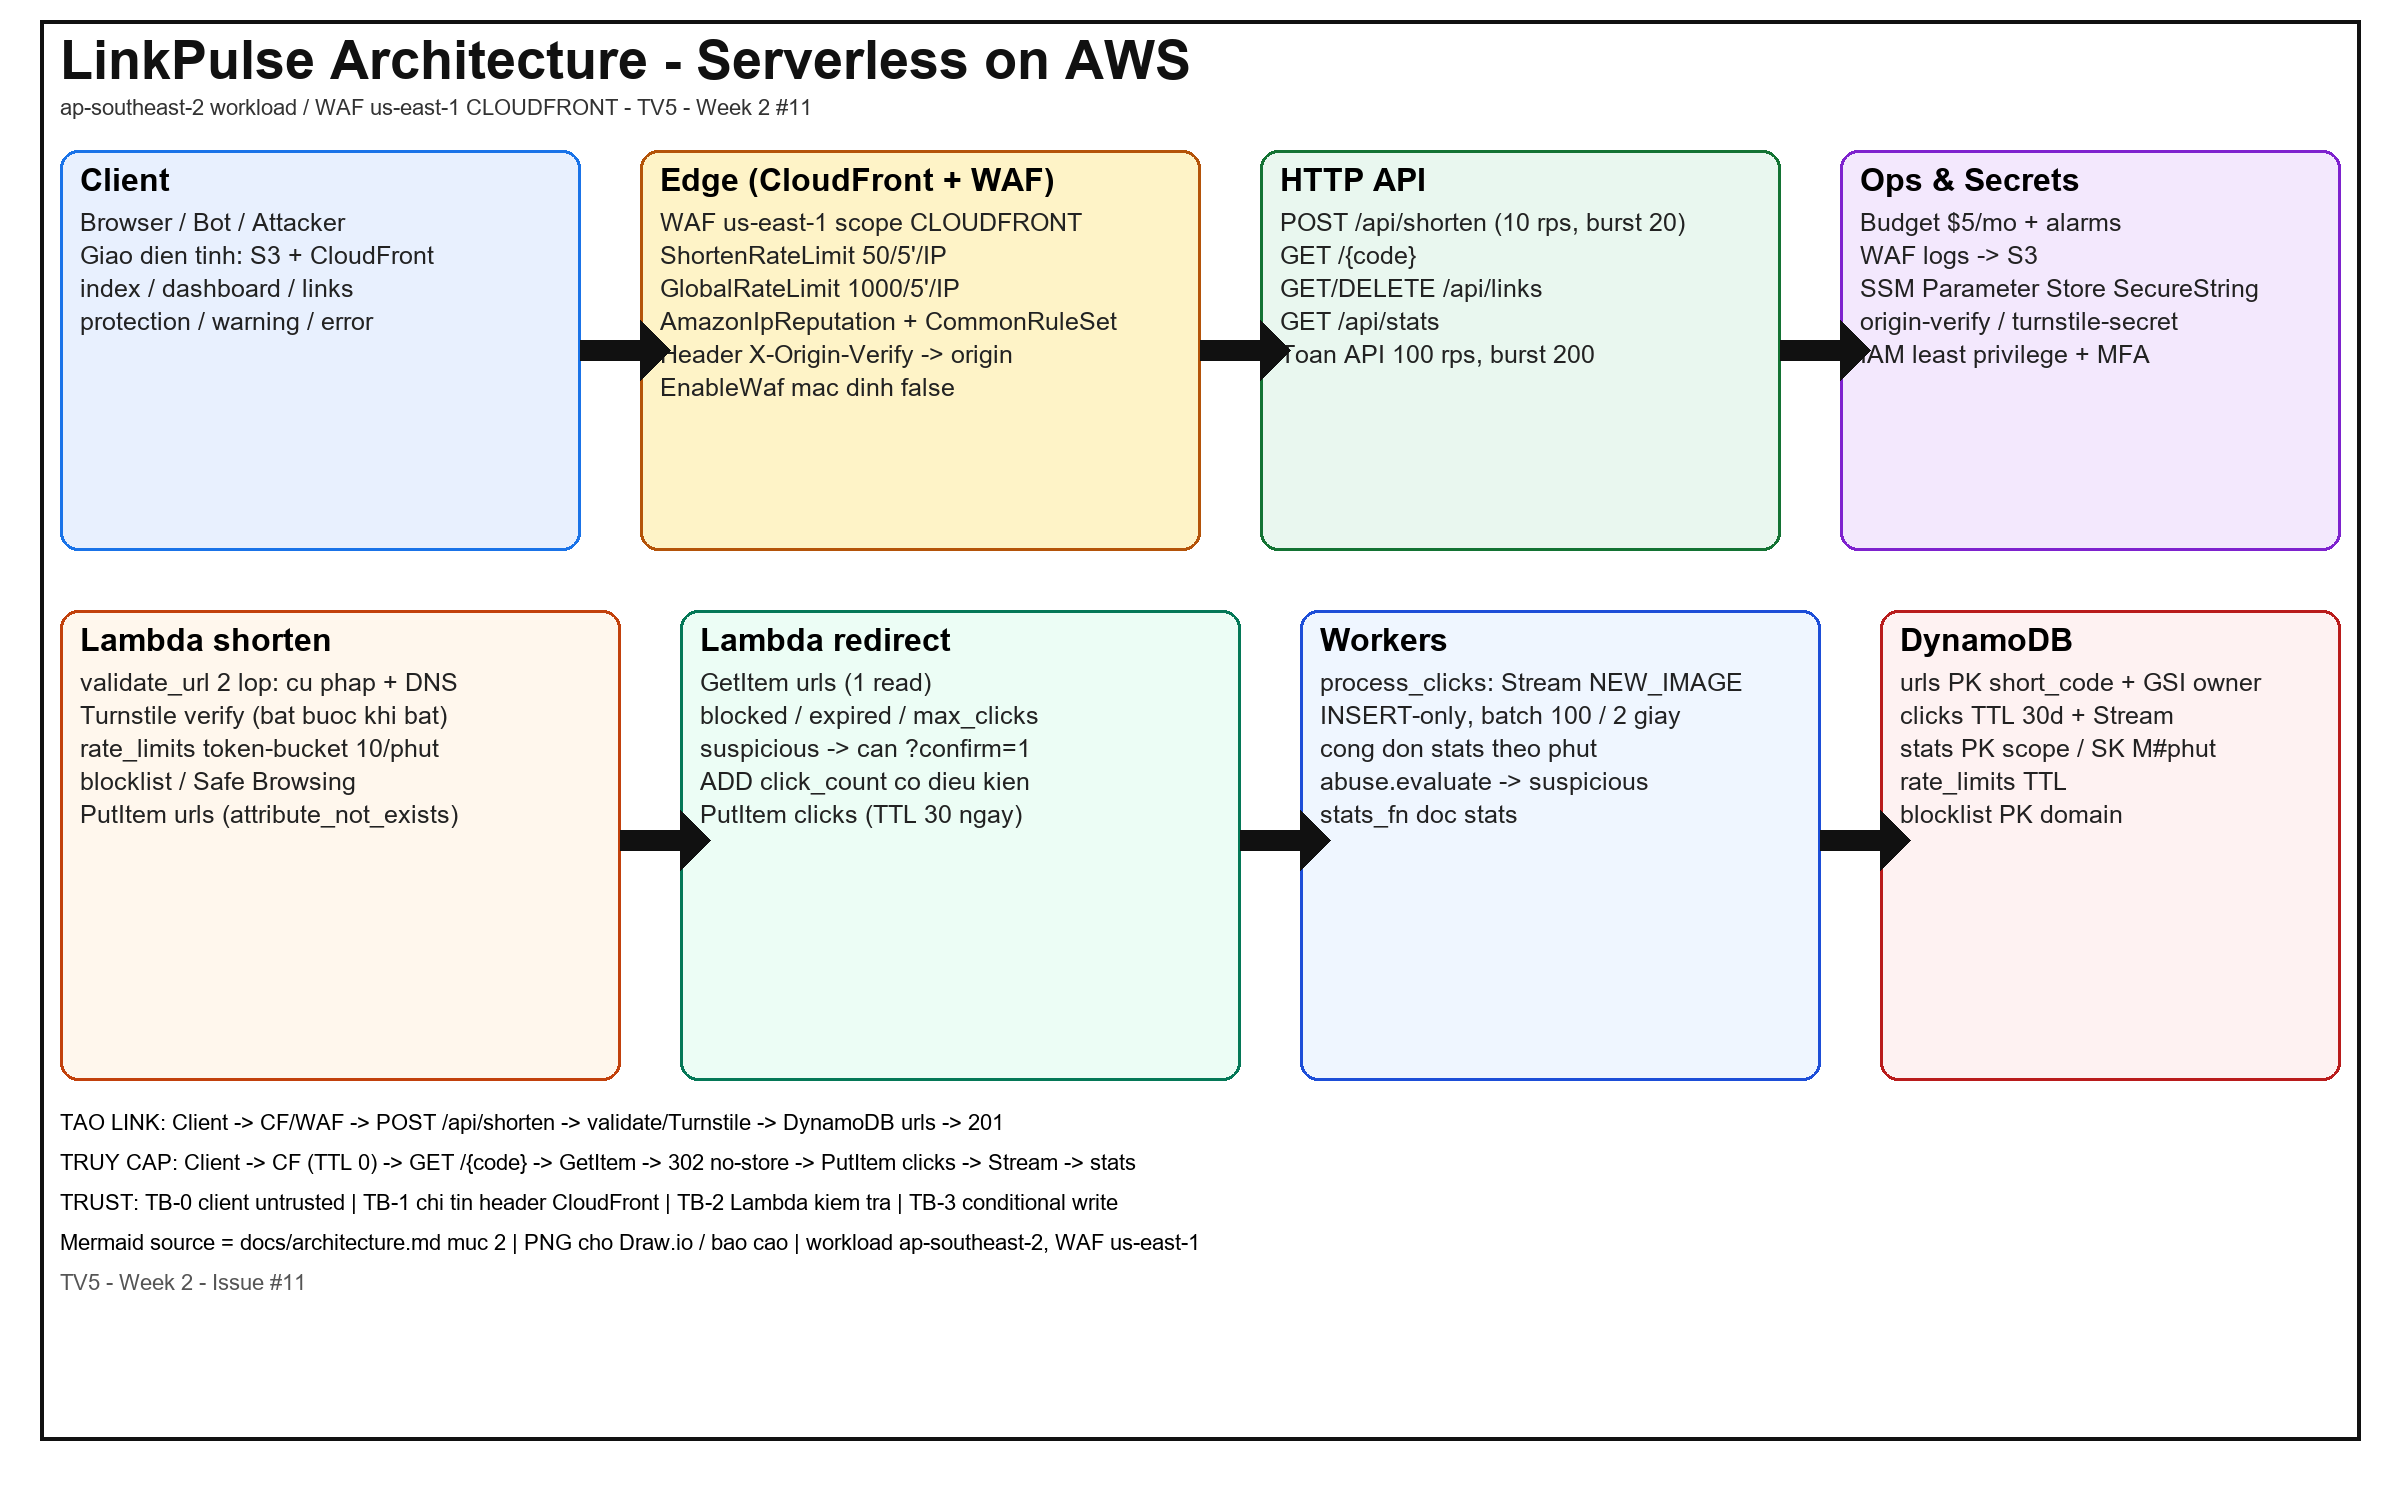
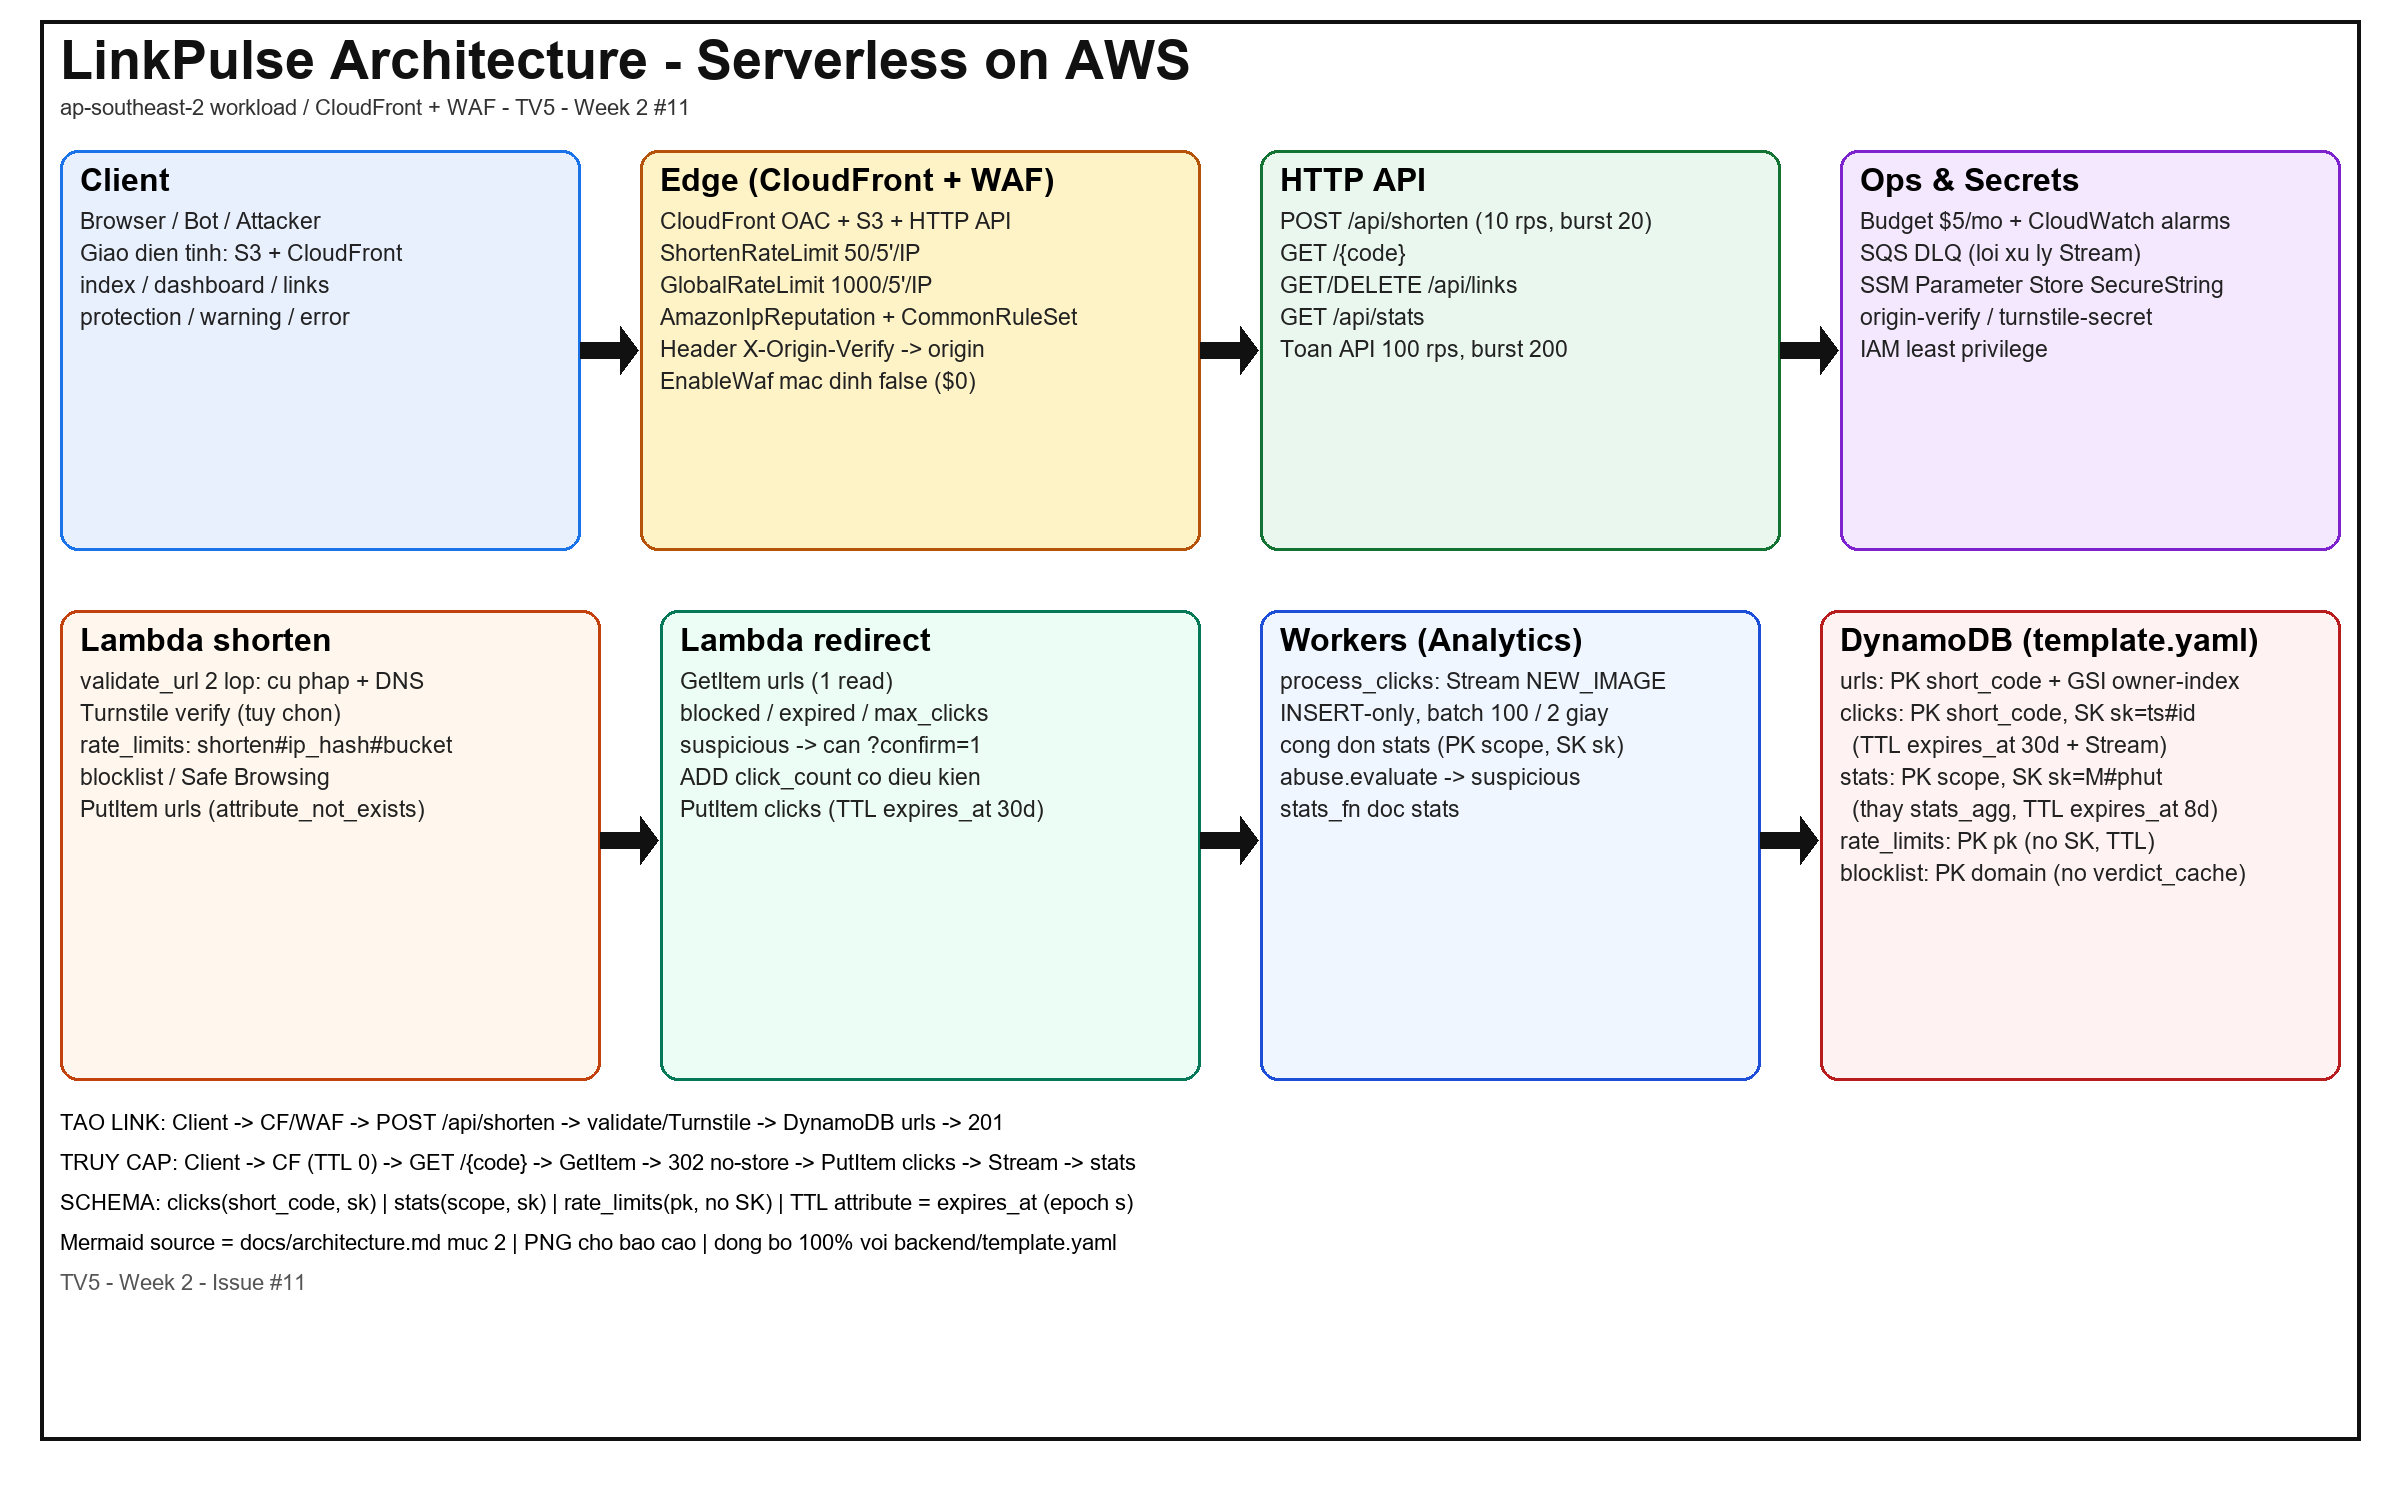
docs(arch): đồng bộ chi tiết khóa PK/SK, TTL expires_at và làm rõ verdict_cache theo template

diff --git a/scripts/gen_arch_png.py b/scripts/gen_arch_png.py
@@ -13,7 +13,7 @@ d = ImageDraw.Draw(img)
 try:
     f_title = ImageFont.truetype("arialbd.ttf", 54)
     f_h = ImageFont.truetype("arialbd.ttf", 32)
-    f_b = ImageFont.truetype("arial.ttf", 25)
+    f_b = ImageFont.truetype("arial.ttf", 23)
     f_s = ImageFont.truetype("arial.ttf", 22)
 except Exception:
     f_title = ImageFont.load_default()
@@ -26,11 +26,11 @@ def box(x, y, w, h, fill, outline, title, lines):
     yy = y + 58
     for ln in lines:
         d.text((x + 20, yy), ln, font=f_b, fill="#222222")
-        yy += 33
+        yy += 32
 
 
 d.text((60, 30), "LinkPulse Architecture - Serverless on AWS", font=f_title, fill="#111111")
-d.text((60, 95), "ap-southeast-2 workload / WAF us-east-1 CLOUDFRONT - TV5 - Week 2 #11", font=f_s, fill="#333333")
+d.text((60, 95), "ap-southeast-2 workload / CloudFront + WAF - TV5 - Week 2 #11", font=f_s, fill="#333333")
 
 box(60, 150, 520, 400, "#E8F0FE", "#1a73e8", "Client", [
     "Browser / Bot / Attacker",
@@ -39,12 +39,12 @@ box(60, 150, 520, 400, "#E8F0FE", "#1a73e8", "Client", [
     "protection / warning / error",
 ])
 box(640, 150, 560, 400, "#FEF3C7", "#b45309", "Edge (CloudFront + WAF)", [
-    "WAF us-east-1 scope CLOUDFRONT",
+    "CloudFront OAC + S3 + HTTP API",
     "ShortenRateLimit 50/5'/IP",
     "GlobalRateLimit 1000/5'/IP",
     "AmazonIpReputation + CommonRuleSet",
     "Header X-Origin-Verify -> origin",
-    "EnableWaf mac dinh false",
+    "EnableWaf mac dinh false ($0)",
 ])
 box(1260, 150, 520, 400, "#E9F7EF", "#137333", "HTTP API", [
     "POST /api/shorten (10 rps, burst 20)",
@@ -54,54 +54,56 @@ box(1260, 150, 520, 400, "#E9F7EF", "#137333", "HTTP API", [
     "Toan API 100 rps, burst 200",
 ])
 box(1840, 150, 500, 400, "#F3E8FD", "#7e22ce", "Ops & Secrets", [
-    "Budget $5/mo + alarms",
-    "WAF logs -> S3",
+    "Budget $5/mo + CloudWatch alarms",
+    "SQS DLQ (loi xu ly Stream)",
     "SSM Parameter Store SecureString",
     "origin-verify / turnstile-secret",
-    "IAM least privilege + MFA",
+    "IAM least privilege",
 ])
 
 for x in (580, 1200, 1780):
-    d.polygon([(x, 340), (x + 60, 340), (x + 60, 320), (x + 90, 350),
-               (x + 60, 380), (x + 60, 360), (x, 360)], fill="#111111")
+    d.polygon([(x, 342), (x + 40, 342), (x + 40, 326), (x + 58, 350),
+               (x + 40, 374), (x + 40, 358), (x, 358)], fill="#111111")
 
-box(60, 610, 560, 470, "#FFF7ED", "#c2410c", "Lambda shorten", [
+box(60, 610, 540, 470, "#FFF7ED", "#c2410c", "Lambda shorten", [
     "validate_url 2 lop: cu phap + DNS",
-    "Turnstile verify (bat buoc khi bat)",
-    "rate_limits token-bucket 10/phut",
+    "Turnstile verify (tuy chon)",
+    "rate_limits: shorten#ip_hash#bucket",
     "blocklist / Safe Browsing",
     "PutItem urls (attribute_not_exists)",
 ])
-box(680, 610, 560, 470, "#ECFDF5", "#047857", "Lambda redirect", [
+box(660, 610, 540, 470, "#ECFDF5", "#047857", "Lambda redirect", [
     "GetItem urls (1 read)",
     "blocked / expired / max_clicks",
     "suspicious -> can ?confirm=1",
     "ADD click_count co dieu kien",
-    "PutItem clicks (TTL 30 ngay)",
+    "PutItem clicks (TTL expires_at 30d)",
 ])
-box(1300, 610, 520, 470, "#EFF6FF", "#1d4ed8", "Workers", [
+box(1260, 610, 500, 470, "#EFF6FF", "#1d4ed8", "Workers (Analytics)", [
     "process_clicks: Stream NEW_IMAGE",
     "INSERT-only, batch 100 / 2 giay",
-    "cong don stats theo phut",
+    "cong don stats (PK scope, SK sk)",
     "abuse.evaluate -> suspicious",
     "stats_fn doc stats",
 ])
-box(1880, 610, 460, 470, "#FEF2F2", "#b91c1c", "DynamoDB", [
-    "urls PK short_code + GSI owner",
-    "clicks TTL 30d + Stream",
-    "stats PK scope / SK M#phut",
-    "rate_limits TTL",
-    "blocklist PK domain",
+box(1820, 610, 520, 470, "#FEF2F2", "#b91c1c", "DynamoDB (template.yaml)", [
+    "urls: PK short_code + GSI owner-index",
+    "clicks: PK short_code, SK sk=ts#id",
+    "  (TTL expires_at 30d + Stream)",
+    "stats: PK scope, SK sk=M#phut",
+    "  (thay stats_agg, TTL expires_at 8d)",
+    "rate_limits: PK pk (no SK, TTL)",
+    "blocklist: PK domain (no verdict_cache)",
 ])
 
-for x in (620, 1240, 1820):
-    d.polygon([(x, 830), (x + 60, 830), (x + 60, 810), (x + 90, 840),
-               (x + 60, 870), (x + 60, 850), (x, 850)], fill="#111111")
+for x in (600, 1200, 1760):
+    d.polygon([(x, 832), (x + 40, 832), (x + 40, 816), (x + 58, 840),
+               (x + 40, 864), (x + 40, 848), (x, 848)], fill="#111111")
 
 d.text((60, 1110), "TAO LINK: Client -> CF/WAF -> POST /api/shorten -> validate/Turnstile -> DynamoDB urls -> 201", font=f_s, fill="black")
 d.text((60, 1150), "TRUY CAP: Client -> CF (TTL 0) -> GET /{code} -> GetItem -> 302 no-store -> PutItem clicks -> Stream -> stats", font=f_s, fill="black")
-d.text((60, 1190), "TRUST: TB-0 client untrusted | TB-1 chi tin header CloudFront | TB-2 Lambda kiem tra | TB-3 conditional write", font=f_s, fill="black")
-d.text((60, 1230), "Mermaid source = docs/architecture.md muc 2 | PNG cho Draw.io / bao cao | workload ap-southeast-2, WAF us-east-1", font=f_s, fill="black")
+d.text((60, 1190), "SCHEMA: clicks(short_code, sk) | stats(scope, sk) | rate_limits(pk, no SK) | TTL attribute = expires_at (epoch s)", font=f_s, fill="black")
+d.text((60, 1230), "Mermaid source = docs/architecture.md muc 2 | PNG cho bao cao | dong bo 100% voi backend/template.yaml", font=f_s, fill="black")
 d.text((60, 1270), "TV5 - Week 2 - Issue #11", font=f_s, fill="#555555")
 
 d.rectangle([40, 20, W - 40, H - 60], outline="#111111", width=4)

diff --git a/docs/architecture.md b/docs/architecture.md
@@ -61,12 +61,12 @@ flowchart TB
         LProc["process_clicks<br/>Stream NEW_IMAGE, INSERT<br/>→ cộng dồn stats theo phút<br/>→ gắn cờ link bất thường"]
     end
 
-    subgraph Data["DynamoDB — provisioned, TTL, Streams"]
-        TUrls[("urls<br/>PK short_code<br/>GSI owner-index (owner_id, created_at)")]
-        TClicks[("clicks<br/>PK short_code, SK sk=ts#id<br/>TTL 30 ngày, Stream NEW_IMAGE")]
-        TStats[("stats<br/>PK scope (GLOBAL/LINK#code/META)<br/>SK sk=M#phút<br/>TTL 8 ngày")]
-        TRate[("rate_limits<br/>PK pk=loại#ip_hash#cửa sổ")]
-        TBlock[("blocklist<br/>PK domain")]
+    subgraph Data["DynamoDB — provisioned, TTL expires_at, Streams"]
+        TUrls[("urls (UrlsTable)<br/>PK short_code<br/>GSI owner-index (owner_id, created_at)")]
+        TClicks[("clicks (ClicksTable)<br/>PK short_code · SK sk=ts#id<br/>TTL expires_at (30 ngày) · Stream NEW_IMAGE")]
+        TStats[("stats (StatsTable, thay cho stats_agg)<br/>PK scope · SK sk=M#phút<br/>TTL expires_at (8 ngày)")]
+        TRate[("rate_limits (RateLimitsTable)<br/>PK pk=loại#ip_hash#cửa_sổ (không có SK)<br/>TTL expires_at")]
+        TBlock[("blocklist (BlocklistTable)<br/>PK domain (không chứa verdict_cache)")]
     end
 
     subgraph Ops["Vận hành"]
@@ -97,7 +97,7 @@ flowchart TB
     LStats --> TStats
     TClicks -->|Streams NEW_IMAGE| LProc
     LProc --> TStats
-    LProc -->|gắn cỏ| TUrls
+    LProc -->|gắn cờ| TUrls
     LProc -->|lỗi| SQS
     SQS --> CW
     LShort -.->|đọc bí mật| SSM
@@ -218,15 +218,20 @@ Chuẩn lỗi: `{ "error": { "code", "message?", "reason?", "retry_after?" } }`.
 ### 4.2. DynamoDB
 
 `backend/template.yaml` là nguồn sự thật của schema. Chế độ tính phí `PROVISIONED` để nằm trong
-mức miễn phí.
+mức miễn phí (23 WCU / 23 RCU tổng).
 
-| Bảng | Khoá | Ghi chú |
-|---|---|---|
-| `urls` | PK `short_code` · GSI `owner-index` (`owner_id`, `created_at`) | `status`, `long_url`, `owner_id`, `created_at`, `expires_at`, `max_clicks`, `click_count`, `flag_reason`, `flagged_at`. Xoá mềm giữ `status = deleted`. |
-| `clicks` | PK `short_code` · SK `sk = <ts>#<id>` | TTL 30 ngày · Stream `NEW_IMAGE` là nguồn của pipeline. Chỉ lưu `ip_hash`, không lưu `user_agent`. |
-| `stats` | PK `scope` (`GLOBAL` / `LINK#<code>` / `META`) · SK `sk = M#<phút>` | TTL 8 ngày · bộ đếm phẳng và tập `ips`. |
-| `rate_limits` | PK `pk = <loại>#<ip_hash>#<cửa sổ>` | Ghi có điều kiện nguyên tử, TTL tự dọn. |
-| `blocklist` | PK `domain` | Khớp cả domain cha (`a.b.bad.com` khớp `bad.com`). |
+| Bảng (`template.yaml`) | Partition Key (PK) & Sort Key (SK) | TTL (`expires_at`) | Ghi chú đồng bộ với `backend/template.yaml` |
+|---|---|---|---|
+| `urls` (`UrlsTable`) | PK `short_code` (`S`) · **Không có SK** · GSI `owner-index` (`PK: owner_id`, `SK: created_at`) | Không bật DynamoDB TTL (`expires_at` chỉ dùng kiểm tra nghiệp vụ trả `410 link_expired`) | `status`, `long_url`, `owner_id`, `created_at`, `expires_at`, `max_clicks`, `click_count`, `flag_reason`, `flagged_at`. Xoá mềm giữ `status = deleted` để không cấp lại mã. |
+| `clicks` (`ClicksTable`) | PK `short_code` (`S`) · SK `sk` (`S`, dạng `<timestamp ISO UTC>#<id>`, không dùng `click_key`) | Bật (`expires_at` kiểu Number, Unix epoch seconds, mặc định 30 ngày qua `CLICKS_TTL_DAYS`) | Stream `NEW_IMAGE` (lọc `INSERT`) kích hoạt `process_clicks`. Chỉ lưu `ip_hash` (16 hex) và `result` (`valid`/`bot`), không lưu `user_agent`. |
+| `stats` (`StatsTable`, đổi từ `stats_agg`) | PK `scope` (`S`: `GLOBAL` / `LINK#<code>` / `META`) · SK `sk` (`S`: `M#<ISO phút>` hoặc khoá meta) | Bật (`expires_at` kiểu Number, Unix epoch seconds, mặc định 8 ngày cho dòng `M#<phút>`; dòng `META` không đặt `expires_at`) | Lưu bộ đếm phẳng (`clicks`, `bot_clicks`, `c:*`, `d:*`, `b:*`, `r:*`, `l:*`) và tập `ips`. |
+| `rate_limits` (`RateLimitsTable`) | PK `pk` (`S`, dạng `<loại>#<ip_hash>#<cửa_sổ>`) · **Không có SK** (thay cho `PK: ip` ở bản phác thảo tuần 1) | Bật (`expires_at = (bucket + 2) * window`, kiểu Number, Unix epoch seconds) | Ghi có điều kiện nguyên tử (`ADD cnt :one`), tự dọn sau 2 cửa sổ thời gian. |
+| `blocklist` (`BlocklistTable`) | PK `domain` (`S`) · **Không có SK** | Không bật TTL | Chỉ lưu danh sách tên miền bị chặn nội bộ (`domain`, `reason`, `created_at`), khớp cả domain cha (`a.b.bad.com` khớp `bad.com`). |
+
+**Làm rõ các điểm đồng bộ giữa kiến trúc và `backend/template.yaml`:**
+
+- **Quy ước thuộc tính TTL `expires_at`:** Trên cả 3 bảng có bật DynamoDB TTL (`clicks`, `stats`, `rate_limits`), thuộc tính TTL đều đặt tên thống nhất là `expires_at` (`TimeToLiveSpecification: {AttributeName: expires_at, Enabled: true}`) và lưu giá trị kiểu **Number (Unix epoch seconds)** — số giây tính từ `1970-01-01T00:00:00Z`.
+- **Làm rõ về `verdict_cache` và `blocklist`:** Triển khai hiện tại trong `backend/template.yaml` chỉ có đúng 5 bảng nêu trên; **không có bảng `verdict_cache` riêng và không lưu chung `verdict_cache` trong bảng `blocklist`**. Bảng `blocklist` chỉ chứa các domain bị chặn. Khi bật Google Safe Browsing (`SafeBrowsingKeyParam`), Lambda `shorten` tra cứu trực tiếp qua API với cơ chế fail-open (`reputation.py`), còn `verdict_cache` chỉ là phương án mở rộng được phân tích trong `docs/security_research.md`.
 
 ### 4.3. Edge ↔ Origin
 
